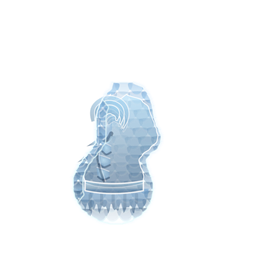
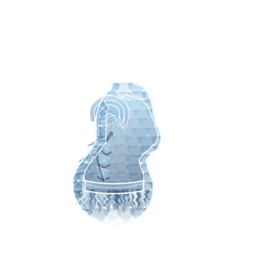
Call of Valor: the fur becomes zigzag strands, and the scales are cut out of it
The user's instruction, and the first half is the part that mattered: take the
scale field out of the fur, then replace it with randomly curving pointy
zigzags. The scales were clipped to the whole torso, fur band included, and a
dragon-scale grid inside a fur skirt cancels the fur outright - no amount of
strand drawing survives a regular pattern behind it. The fur outline is now a
reusable BuildFurPath and the scale fill runs against a Region with it excluded.

Not a reversal of "fur strands are not drawable". A single strand is 2-4px and
does not RESOLVE at play distance; that stands. But it does not have to resolve
to do its job - what is drawn is a texture made of many, and en masse they read
as broken and hairy at any zoom. What cannot be done is a strand meant to be
looked at on its own, and none of these are.

Three things make a zigzag read as hair rather than as scribble:
  - it must come to a POINT. Width tapers to zero, so the strand ends rather
    than stopping. Constant width is a piece of wire.
  - the zig amplitude must shrink towards the tip too, or the point sits at the
    end of a wide oscillation and reads as a lightning bolt.
  - each strand needs its own curvature, applied as t-squared, straight at the
    root and bending near the end. All curving alike looks combed; none curving
    looks like a comb.
AddPolygon, never AddClosedCurve - a curve tension rounds the corners off, and
the corners ARE the fur. Exactly the opposite of the pectorals.
[…]

Changed region(s): [[0.3125, 0.7188, 0.5938, 0.8438]]

diff --git a/Mods/Dovahkiin/CHANGELOG.md b/Mods/Dovahkiin/CHANGELOG.md
@@ -1,5 +1,55 @@
 # CHANGELOG
 
+## Call of Valor: the fur becomes zigzag strands, and the scales are cut out of it (2026-07-31)
+
+The user's instruction, and the first half of it is the part that mattered: **take the scale field
+out of the fur, then replace it with randomly curving pointy zigzags.** The scales were clipped to
+the whole torso, which includes the fur band, and **a dragon-scale grid inside a fur skirt cancels
+the fur outright** — no amount of strand drawing survives a regular pattern behind it. The fur's
+outline is now a reusable `BuildFurPath`, and the scale fill runs against a `Region` with that path
+excluded.
+
+### On "fur strands are not drawable" — this is not a reversal of it
+
+A single strand is 2–4px and does not **resolve** at play distance. That was true and still is.
+But a strand does not have to resolve to do its job: what is being drawn is a **texture made of
+many**, and en masse they read as *broken, hairy, not metal* at any zoom. Close up you see strands;
+at 48px you see a band that is not smooth. Both are wanted. What genuinely cannot be done is a
+strand meant to be looked at individually — and none of these are.
+
+Three things make a zigzag read as hair rather than as a scribble:
+
+- **it must come to a POINT** — width tapers to zero, so the strand *ends* rather than stopping. A
+  constant-width zigzag is a piece of wire.
+- **the zig amplitude must shrink towards the tip too**, or the point sits at the end of a wide
+  oscillation and reads as a lightning bolt.
+- **each strand needs its own curvature, applied as t²** so it is straight at the root and bends
+  near the end. All curving alike looks combed; none curving looks like a comb.
+
+`AddPolygon`, never `AddClosedCurve` — a curve tension rounds the zigzag's corners off and it
+becomes a wavy ribbon. **The corners are the fur.**
+
+### Two passes, and the second was only informed because it was MEASURED
+
+- **Pass one: the strands were sub-pixel.** Width at 0.052 of the band's height drew them **0.9px
+  wide** — they existed, were correct, and were invisible. *Scale detail against the region's
+  actual pixels, not against intuition:* the fur band is only ~17px tall and ~72px wide on a male
+  south sprite.
+- **Pass two looked identical, so it got diffed rather than tweaked again.** The texture had
+  **1516 pixels changed across exactly the right rows** and the strands covered ~70px of a 72px
+  band. They were drawing perfectly. **The density was the problem, not the size:** rolling each
+  strand's tone independently across one range put neighbours at similar values often enough that
+  the band read as one flat mass, and with no gaps there was nothing else to separate them.
+
+*Fix:* **alternate dark and light rather than rolling**, so every strand contrasts with the two
+beside it, with an occasional hash-driven flip so it does not read as stripes. Same rule the aura's
+particle sides already use — for a binary choice that has to come out even, alternate, do not roll.
+
+All hashing is deterministic. Randomness would change the art on every regeneration and make the
+checkpoint's manifest worthless.
+
+---
+
 ## Call of Valor: the cuirass sat INSIDE the pawn on the side view (2026-07-31)
 
 Reported by the user: on east, the chest, abs and belt all sat inside the body. They were right,
